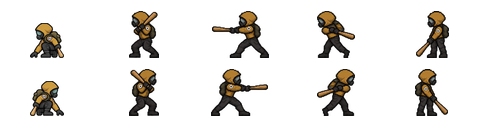
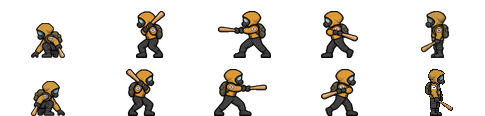
대기 원본 기준으로 방망이 공격 캐릭터 통일

diff --git a/src/player.py b/src/player.py
@@ -11,7 +11,7 @@ SNEAK_SPEED = 85
 BASE_MOVEMENT_RATE = 0.7
 MAX_FRAME_TIME = 0.05
 MOVEMENT_FRAME_WIDTH = 77
-ACTION_FRAME_WIDTH = 96
+ACTION_FRAME_WIDTH = 97
 FRAME_HEIGHT = 58
 WALK_FRAME_TIME = 0.12
 SNEAK_FRAME_TIME = 0.15

diff --git a/assets/ANIMATION_GUIDE.md b/assets/ANIMATION_GUIDE.md
@@ -64,7 +64,9 @@ Shift 전환 때 조용히 걷기 시트가 밝아 보이는 차이를 줄이기
 ## 횡스크롤 전환과 좌우 공격
 
 - A/D는 좌우 이동과 방향을 결정한다. W/S는 통로 안에서 앞뒤 깊이만 바꾸며 마지막 좌우 자세를 유지한다. 카메라는 x축을 따라가고, 바닥 물체는 뒤에서 앞으로 그린다.
-- 게임은 좌우 두 줄만 들어 있는 전용 시트를 사용한다. 이동 칸은 77×58, 공격·줍기 칸은 96×58이다. 방공호와 지상 배경은 imagegen으로 옆에서 본 벽과 앞뒤로 걸을 수 있는 바닥을 구성한 뒤 각각 768×480, 1536×480으로 정리했다.
+- 게임은 좌우 두 줄만 들어 있는 전용 시트를 사용한다. 이동 칸은 77×58, 공격·줍기 칸은 97×58이다. 방공호와 지상 배경은 imagegen으로 옆에서 본 벽과 앞뒤로 걸을 수 있는 바닥을 구성한 뒤 각각 768×480, 1536×480으로 정리했다.
 - 공격 칸은 줍기 → 준비 → 타격 → 휘두른 뒤 → 회수 순이다. 좌우 공격의 실루엣과 발 기준점을 맞추기 위해 같은 스윙을 반전한다. 타격 칸 진입과 판정은 같은 시점을 사용한다. 실제 명중에만 75ms 멈춤, 충격 표시와 합성 타격음을 재생한다.
 - 좀보이드 개발 글에서 대기·이동·은신 사이의 무게 이동과 공격 후 회수에 주목했다. 새 동작은 시작, 접촉 또는 발 디딤, 복귀를 먼저 나눠 그린다. 다음 후보인 달리기 시작·정지, 밀치기, 넘어짐·기상, 장애물 넘기는 해당 동작 한 방향부터 확인한다.
 - 참고 자료. [Build 41 공식 트레일러 게시물](https://projectzomboid.com/blog/news/2021/12/project-zomboid-build-41-released/), [동작 전환](https://projectzomboid.com/blog/news/2019/06/anim-transition-blog/), [공격 회수와 후속 동작](https://projectzomboid.com/blog/news/2020/07/looks-different-somehow/)
+
+- 공격 스프라이트는 기존 공격 그림을 자세 참고로만 쓰고, 오른쪽 대기 원본의 후드, 방독면, 배낭과 직사각형 태극기 패치를 외형 기준으로 삼는다. 대기·걷기·Shift 걷기와 공격 네 단계를 양쪽 모두 Pico2D에서 캡처해 비교한다. 마지막 회수 칸은 같은 방향의 대기 원본을 사용한다.

diff --git a/docs/DEVELOPMENT_RETROSPECTIVE.md b/docs/DEVELOPMENT_RETROSPECTIVE.md
@@ -60,3 +60,7 @@
 ### 횡스크롤과 공격 타격감
 
 횡스크롤에서 위아래 입력은 점프나 시선 변경과 분리하고 바닥의 앞뒤 깊이로 해석했다. 공격이 그림보다 늦게 맞아 보이는 문제를 피하기 위해 타격 칸 진입과 판정을 묶었다. 테스트 상자 양쪽에서 명중을 확인하고, 거리·깊이·방향이 빗나간 경우에 효과가 발생하지 않는지 별도로 확인했다.
+
+### 대기에서 공격으로 바뀔 때 캐릭터 외형 확인
+
+공격의 명중과 렌더링이 정상이어도 생성 이미지에서 패치, 방독면과 후드가 달라질 수 있다. 실제 게임에서 좌우 대기, 일반·Shift 걷기, 준비, 타격, 휘두른 뒤, 회수를 같은 크기로 비교했다. 회수와 대기는 렌더링한 픽셀도 좌우 각각 일치했다.
